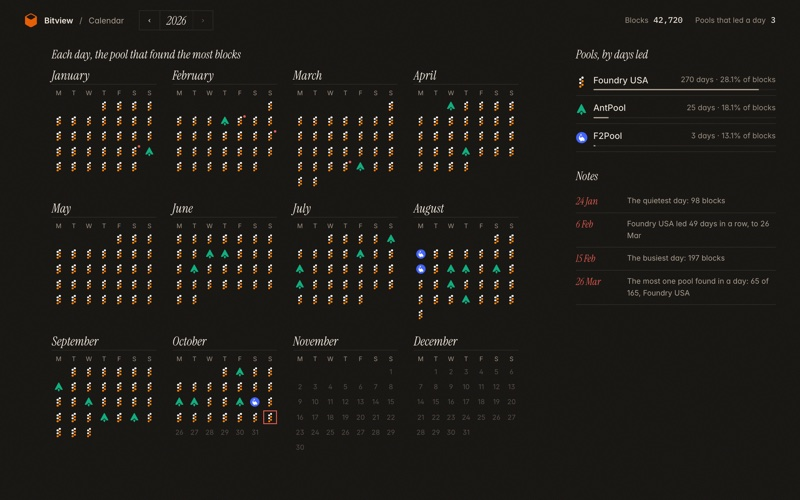
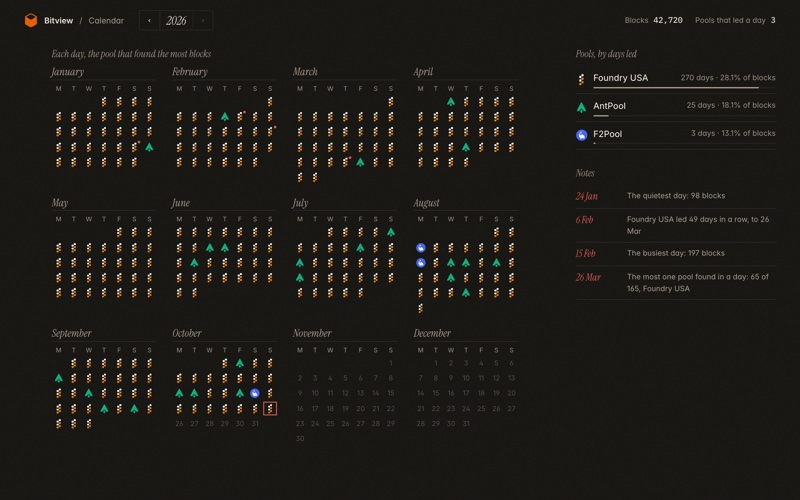
showcases: Calendar's headings step back: the section headings in the faint ink at 16px, the months in the soft ink at 17px (were the full ink, 19 and 20), so the days and the numbers lead; the home's preview again

diff --git a/showcases/calendar/index.html b/showcases/calendar/index.html
@@ -115,8 +115,8 @@
       /* An almanac's headings: the italic serif. */
       .kicker {
         margin: 0;
-        color: var(--ink);
-        font: italic 400 19px / 1.2 var(--serif);
+        color: var(--faint);
+        font: italic 400 16px / 1.2 var(--serif);
       }
 
       .page {
@@ -273,8 +273,8 @@
         margin: 0 0 6px;
         border-bottom: 1px solid var(--line);
         padding-bottom: 2px;
-        color: var(--ink);
-        font: italic 400 20px / 1.15 var(--serif);
+        color: var(--soft);
+        font: italic 400 17px / 1.15 var(--serif);
       }
 
       .week,
